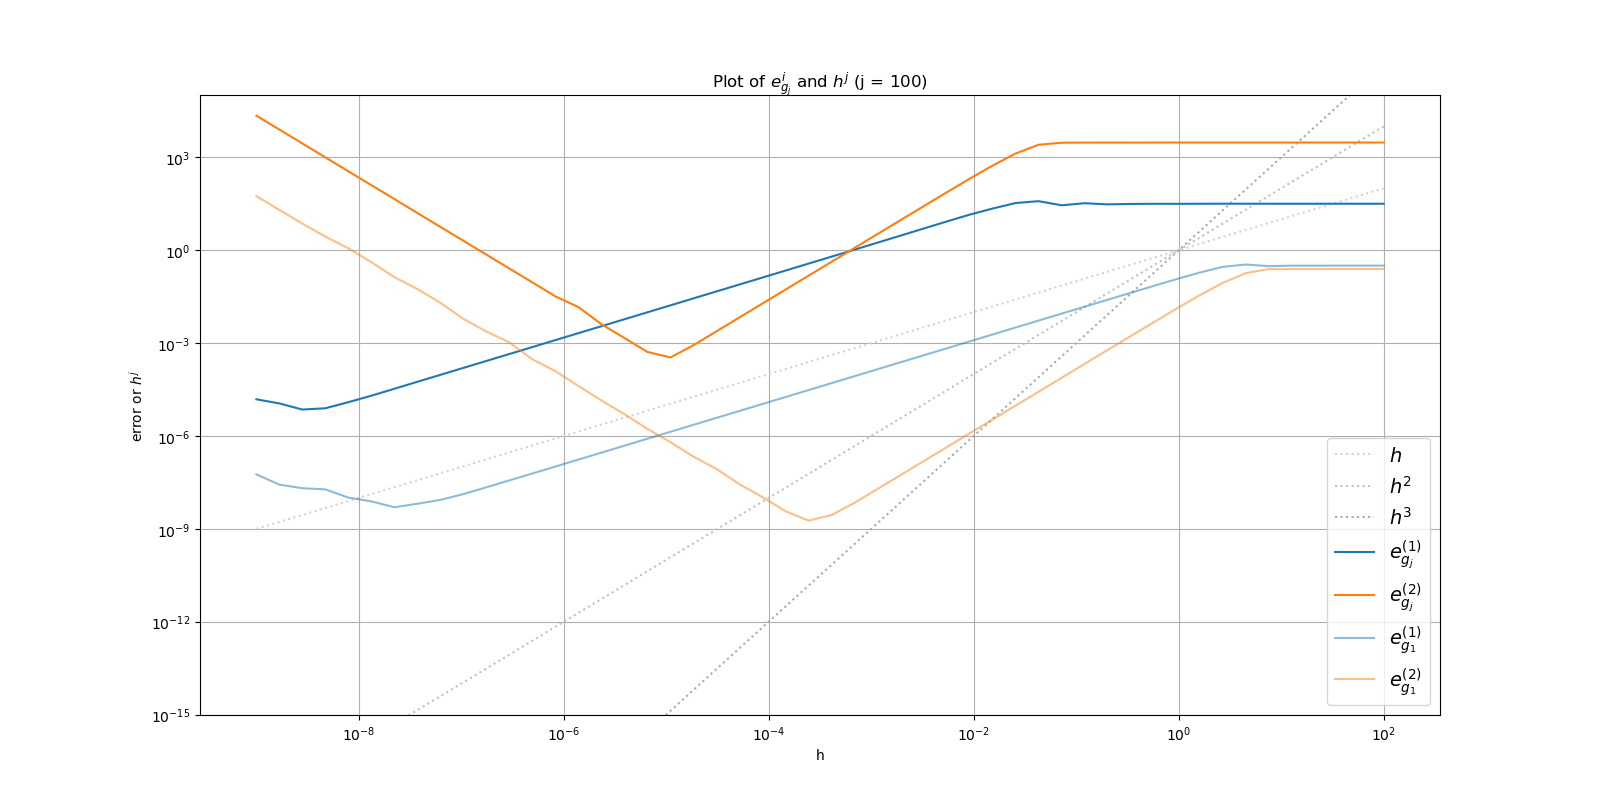
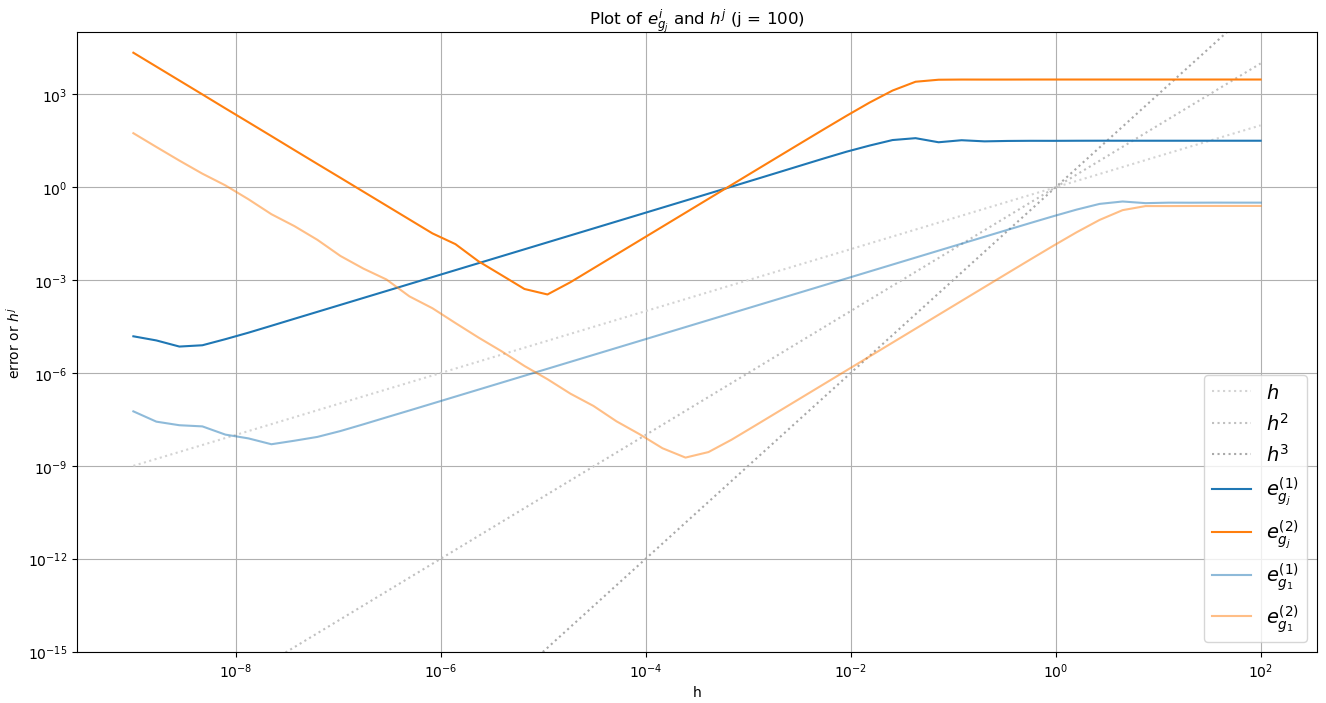
exp2 j-variation figures

diff --git a/first_gate/protocol/contents/experiment2.tex b/first_gate/protocol/contents/experiment2.tex
@@ -12,8 +12,25 @@ and we have the derivatives
 with \(j > 0\). Once again, we will evaluate these functions on the partitioned interval \(I = [\pi, 3\pi]\) with \(p = 1000\). But given \(g_j\), how does large and small \(j\) affect the error plot?
 
 %%%
+\begin{figure}[h!]
+    \centering
+    \begin{subfigure}[b]{0.49\linewidth}
+        \includegraphics[width=\linewidth]{graphics/j_error_plot/big_j.png}
+    \end{subfigure}
+    \begin{subfigure}[b]{0.49\linewidth}
+        \includegraphics[width=\linewidth]{graphics/j_error_plot/large_j.png}
+    \end{subfigure}
+    \begin{subfigure}[b]{0.49\linewidth}
+        \includegraphics[width=\linewidth]{graphics/j_error_plot/small_j.png}
+    \end{subfigure}
+    \begin{subfigure}[b]{0.49\linewidth}
+        \includegraphics[width=\linewidth]{graphics/j_error_plot/tiny_j.png}
+    \end{subfigure}
+    \caption{j-variable variations}
+    \label{fig:exp2_j}
+\end{figure}
 
-On the figure \ref{XXX} one can see that as \(j\) gets smaller, the sweet spot of the increment for both \(D^{(1)}_h(g_j)\) and \(D^{(2)}_h(g_j)\) moves to bottom right. This means, that the optimal choice for \(h\) becomes larger and the approximation becomes slightly better. On the other hand, choosing big values for \(j\) moves the spot to the top left which means that one needs a smaller \(h\) for the most optimal yet worse approximation.
+On the figure \ref{fig:exp2_j} one can see that as \(j\) gets smaller, the sweet spot of the increment for both \(D^{(1)}_h(g_j)\) and \(D^{(2)}_h(g_j)\) moves to bottom right. This means, that the optimal choice for \(h\) becomes larger and the approximation becomes slightly better. On the other hand, choosing big values for \(j\) moves the spot to the top left which means that one needs a smaller \(h\) for the most optimal yet worse approximation.
 Why does this movement of the sweet spot occur? To answer this question, we have to look at what \(j\) does in our function \(\sin(\cdot)\). \(j\) changes the period, the smaller the \(j\) the smaller the period and vice versa. Because \(g_j\) is once again a periodic function\footnote{A function \(f\) is periodic if there is a nonzero constant \(P \in \mathbb{R}\), such that \(f(x + P) = f(x)\) for all \(x\) in the domain.}, this property of periodicity is inherited from \(\sin(\cdot)\). If we now consider once again how the approximation is calculated, we had
 
 \begin{align*}

diff --git a/first_gate/protocol/contents/experiment1.tex b/first_gate/protocol/contents/experiment1.tex
@@ -55,9 +55,9 @@ Before we discuss the bad news, let us examine where the theory was right in its
 \[\mathcal{O}(h) \hspace{0.3cm} \text{for} \hspace{0.3cm} e_f^{(1)}(h) \hspace{0.3cm} \text{and} \hspace{0.3cm} \mathcal{O}(h^2) \hspace{0.3cm} \text{for} \hspace{0.3cm} e_f^{(2)}(h) \text{.}\]
 The left side of the plot, however, does not behave the way we wanted. At around \(10^{-8}\) for \(e_f^{(1)}(h)\) and at \(10^{-4}\) for \(e_f^{(2)}(h)\) both plots stop converging and starts increasing again. This means that on the machine number line the approximation does not uniformly converge to the analytic derivative. Instead, there is an optimal point for the increment, a "sweet spot", so to speak. Beyond this sweet spot, the approximation actually becomes worse and thus, we cannot decrease the value of the increment haphazardly in hopes of getting a better approximation.
 
-But why does this happen? Where exactly in our computation does the imperfectness of the machine sneak in? To answer this question, see figure \ref{xxx}
+But why does this happen? Where exactly in our computation does the imperfectness of the machine sneak in? To answer this question, see figure \ref{TODO}
 
-%%% figure(X)
+%%% TODO: figure(X)
 
 Here, we have fixed \(x = \pi + 2 \approx 5.14\) to observe the behavior of the analytic derivatives and the approximations with \(h\) as the variable. At around \(10^{-8}\) and \(10^{-4}\) respectively, both \(D^{(1)}_h(x)\) and \(D^{(2)}_h(x)\) starts oscillating even though in theory, these blue curves should once again smoothly approach the exact solution of \(f'\) and \(f''\) at \(x = \pi + 2\). This oscillation results in the error not converging.
 
